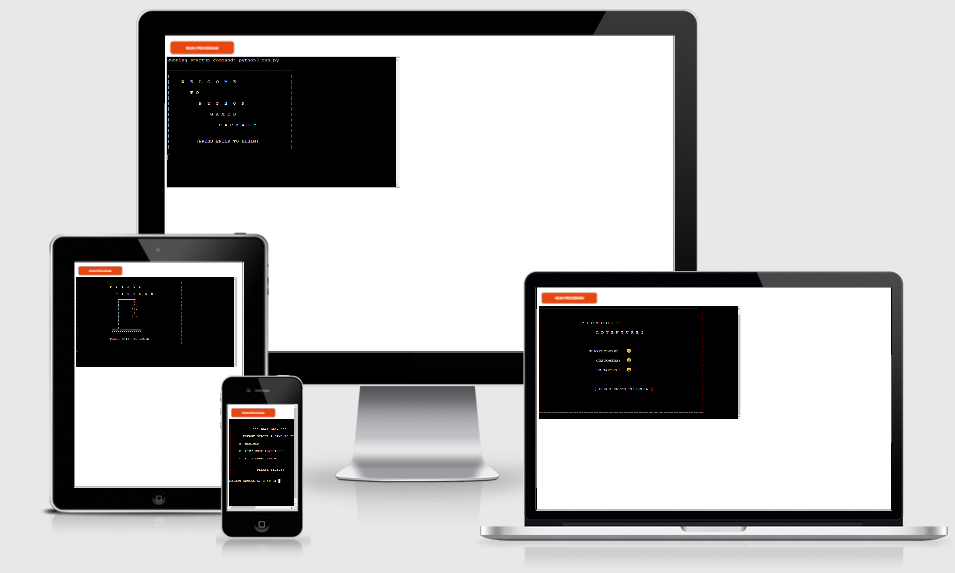
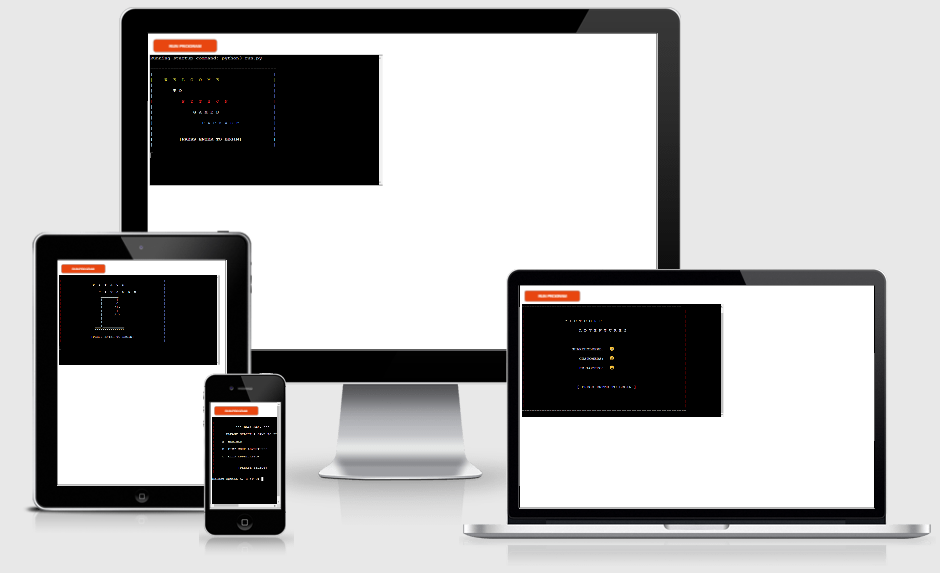
Update welcome screen and amiresponsive screenshots to reflect colored text

Changed region(s): [[0.0309, 0.0, 1.0, 0.9494], [0.216, 0.178, 0.2468, 0.2077]]

diff --git a/README.md b/README.md
@@ -194,6 +194,8 @@ Within the application I have used the following sections of code at varying sta
 
 - [Clear Terminal function:](https://www.geeksforgeeks.org/clear-screen-python/) I required a function to clear the terminal for use in multiple stages of the application - in both Hangman and FictCorp Adventures games. After researching several sources via Search Engines I found the following method used by [GeeksForGeeks.org](https://www.geeksforgeeks.org/clear-screen-python/) whic involved the importation of the name and system functions from the OS library
 
+- I sourced the method for [Printing colored text](https://stackoverflow.com/questions/287871/how-to-print-colored-text-to-the-terminal) to the terminal from the Stack Overflow Article linked [here](https://stackoverflow.com/questions/287871/how-to-print-colored-text-to-the-terminal), and this functionality was used to add color to both the welcome screen, and to the two key "guesses remaining" warnings that occur towards the conclusion of the Hangman game, both of which are intended to add to building a positive UX for the User.
+
 - [Typewriter Effect Function:](https://www.codegrepper.com/code-examples/python/typewriter+effect+python+terminal) Given the text-intensive nature of the FictCorp Adventures game, I wanted to ensure the user was not overwhelmed by large blocks of text appearing simultaneously, and felt that the text appearing in small sections, and gradually would help the user visually parse the information in a more efficient manner. This typewriter functionfrom [Codegrepper.com](https://www.codegrepper.com/code-examples/python/typewriter+effect+python+terminal) helped with this objective, and has been fully attributed & credited.
 
 - The [Sleep](https://www.programiz.com/python-programming/time/sleep) function is used at several points throughout the application to help imrove the UX by giving the user time to parse & process text visually, generally warnging/notification messages, and particularly in the Hangman section of the application. I was able to find this [article](https://www.programiz.com/python-programming/time/sleep) from [programiz.com](https://www.programiz.com/python-programming/time/sleep) on how to use the sleep function, including importation from the appropriate Python library.
